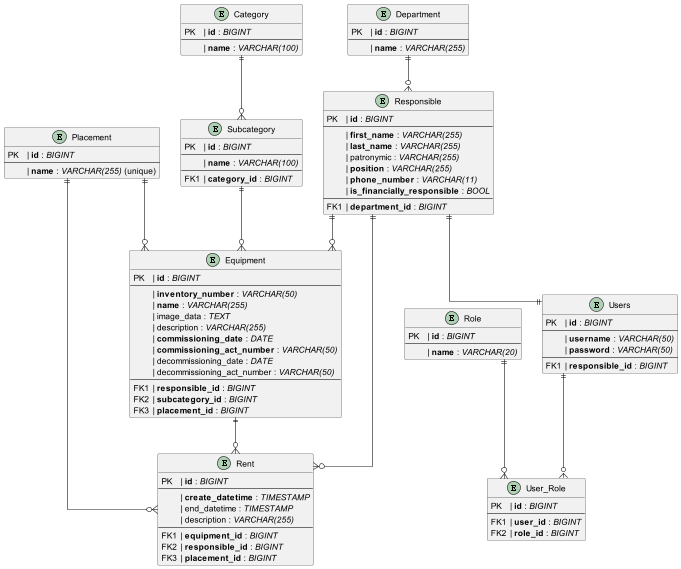
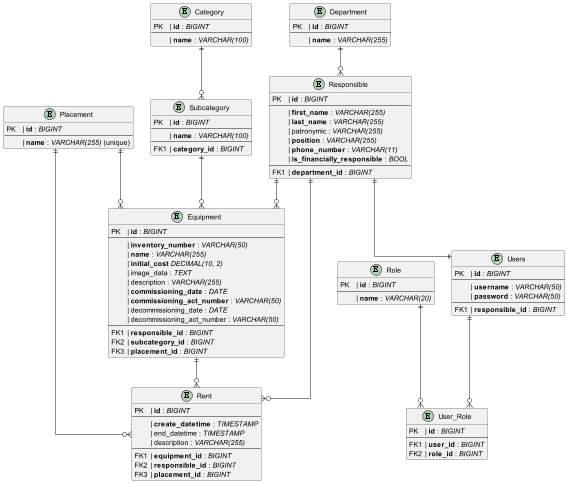
feat: add column 'initial_cost' to equipment, add specification to initial cost field

Changed region(s): [[0.1799, 0.0, 1.0, 1.0], [0.0, 0.2174, 0.2399, 0.9006]]

diff --git a/src/main/java/com/vlsu/inventory/service/EquipmentService.java b/src/main/java/com/vlsu/inventory/service/EquipmentService.java
@@ -17,6 +17,7 @@ import org.springframework.stereotype.Service;
 import org.springframework.web.multipart.MultipartFile;
 
 import java.io.IOException;
+import java.math.BigDecimal;
 import java.time.LocalDate;
 import java.util.List;
 import java.util.Map;
@@ -40,7 +41,8 @@ public class EquipmentService {
     }
 
     public List<Equipment> getAllEquipmentByParams(
-            String inventoryNumber, String name, LocalDate commissioningDateFrom, LocalDate commissioningDateTo,
+            String inventoryNumber, String name, BigDecimal initialCostFrom, BigDecimal initialCostTo,
+            LocalDate commissioningDateFrom, LocalDate commissioningDateTo,
             LocalDate decommissioningDateFrom, LocalDate decommissioningDateTo,
             String commissioningActNumber, String decommissioningActNumber) {
         Specification<Equipment> filter = (equipment, query, cb) -> cb.greaterThan(equipment.get("id"), 0);
@@ -48,6 +50,10 @@ public class EquipmentService {
             filter = filter.and(inventoryNumberStartsWith(inventoryNumber));
         if (name != null)
             filter = filter.and(nameStartsWith(name));
+        if (initialCostFrom != null)
+            filter = filter.and(initialCostFrom(initialCostFrom));
+        if (initialCostTo != null)
+            filter = filter.and(initialCostTo(initialCostTo));
         if (commissioningDateFrom != null)
             filter = filter.and(commissioningDateFrom(commissioningDateFrom));
         if (commissioningDateTo != null)
@@ -114,7 +120,7 @@ public class EquipmentService {
 
     public void createEquipment(Long subcategoryId, Long responsibleId, Long placementId, Equipment equipment,
                                 UserDetailsImpl principal)
-            throws ResourceNotFoundException, ActionNotAllowedException, IOException {
+            throws ResourceNotFoundException, ActionNotAllowedException {
         User user = userRepository.findByUsername(principal.getUsername()).get();
         Responsible responsible = user.getResponsible();
         if (user.isAdmin()) {
@@ -161,16 +167,16 @@ public class EquipmentService {
                         .orElseThrow(() -> new ResourceNotFoundException("Placement with id '" + placementId + "' not found"));
         Subcategory subcategory = subcategoryRepository.findById(subcategoryId)
                         .orElseThrow(() -> new ResourceNotFoundException("Subcategory with id '" + subcategoryId + "' not found"));
-        equipment.setInventoryNumber(equipmentRequest.getInventoryNumber());
-        equipment.setName(equipmentRequest.getName());
-        equipment.setDescription(equipmentRequest.getDescription());
-        equipment.setCommissioningDate(equipmentRequest.getCommissioningDate());
-        equipment.setCommissioningActNumber(equipmentRequest.getCommissioningActNumber());
-        equipment.setDecommissioningDate(equipmentRequest.getDecommissioningDate());
-        equipment.setDecommissioningActNumber(equipmentRequest.getDecommissioningActNumber());
+
+        equipment = new Equipment(equipmentRequest.getInventoryNumber(),  equipmentRequest.getName(),
+                equipmentRequest.getImageData(), equipmentRequest.getDescription(), equipmentRequest.getInitialCost(),
+                equipmentRequest.getCommissioningDate(), equipmentRequest.getCommissioningActNumber(),
+                equipmentRequest.getDecommissioningDate(), equipmentRequest.getDecommissioningActNumber());
+        equipment.setId(id);
         equipment.setResponsible(responsible);
         equipment.setPlacement(placement);
         equipment.setSubcategory(subcategory);
+
         equipmentRepository.save(equipment);
     }
 

diff --git a/src/main/java/com/vlsu/inventory/model/Equipment.java b/src/main/java/com/vlsu/inventory/model/Equipment.java
@@ -3,6 +3,7 @@ package com.vlsu.inventory.model;
 import com.fasterxml.jackson.annotation.JsonIgnore;
 import jakarta.persistence.*;
 
+import java.math.BigDecimal;
 import java.time.LocalDate;
 import java.util.List;
 
@@ -25,6 +26,8 @@ public class Equipment {
 
     @Column(name = "description")
     private String description;
+    @Column(name = "initial_cost")
+    private BigDecimal initialCost;
 
     @Column(name = "commissioning_date", nullable = false)
     private LocalDate commissioningDate;
@@ -60,12 +63,13 @@ public class Equipment {
     public Equipment() {}
 
     public Equipment(String inventoryNumber, String name, String imageData,
-                     String description, LocalDate commissioningDate, String commissioningActNumber,
+                     String description, BigDecimal initialCost, LocalDate commissioningDate, String commissioningActNumber,
                      LocalDate decommissioningDate, String decommissioningActNumber) {
         this.inventoryNumber = inventoryNumber;
         this.name = name;
         this.imageData = imageData;
         this.description = description;
+        this.initialCost = initialCost;
         this.commissioningDate = commissioningDate;
         this.commissioningActNumber = commissioningActNumber;
         this.decommissioningDate = decommissioningDate;
@@ -102,6 +106,14 @@ public class Equipment {
 
     public void setImageData(String imageData) {
         this.imageData = imageData;
+    }
+
+    public BigDecimal getInitialCost() {
+        return initialCost;
+    }
+
+    public void setInitialCost(BigDecimal initialCost) {
+        this.initialCost = initialCost;
     }
 
     public String getDescription() {
@@ -186,6 +198,7 @@ public class Equipment {
                 "id=" + id +
                 ", inventoryNumber='" + inventoryNumber + '\'' +
                 ", name='" + name + '\'' +
+                ", initialCost='" + initialCost + '\'' +
                 ", description='" + description + '\'' +
                 ", commissioningDate=" + commissioningDate +
                 ", commissioningActNumber='" + commissioningActNumber + '\'' +

diff --git a/src/main/java/com/vlsu/inventory/controller/EquipmentController.java b/src/main/java/com/vlsu/inventory/controller/EquipmentController.java
@@ -13,6 +13,7 @@ import org.springframework.security.core.annotation.AuthenticationPrincipal;
 import org.springframework.web.bind.annotation.*;
 import org.springframework.web.multipart.MultipartFile;
 
+import java.math.BigDecimal;
 import java.time.LocalDate;
 import java.util.List;
 
@@ -29,6 +30,8 @@ public class EquipmentController {
     public ResponseEntity<?> getAllEquipmentPageable(
             @RequestParam(required = false) String inventoryNumber,
             @RequestParam(required = false) String name,
+            @RequestParam(required = false) BigDecimal initialCostFrom,
+            @RequestParam(required = false) BigDecimal initialCostTo,
             @RequestParam(required = false) LocalDate commissioningDateFrom,
             @RequestParam(required = false) LocalDate commissioningDateTo,
             @RequestParam(required = false) LocalDate decommissioningDateFrom,
@@ -38,8 +41,8 @@ public class EquipmentController {
             @RequestParam(defaultValue = "1") int page,
             @RequestParam(defaultValue = "50") int size) {
         try {
-            List<Equipment> equipment = equipmentService.getAllEquipmentByParams(inventoryNumber, name, commissioningDateFrom,
-                    commissioningDateTo, decommissioningDateFrom, decommissioningDateTo,
+            List<Equipment> equipment = equipmentService.getAllEquipmentByParams(inventoryNumber, name, initialCostFrom, initialCostTo,
+                    commissioningDateFrom, commissioningDateTo, decommissioningDateFrom, decommissioningDateTo,
                     commissioningActNumber, decommissioningActNumber);
             return new ResponseEntity<>(EquipmentService.getEquipmentByPage(equipment, page, size), HttpStatus.OK);
         } catch (Exception exception) {

diff --git a/src/main/java/com/vlsu/inventory/repository/EquipmentRepository.java b/src/main/java/com/vlsu/inventory/repository/EquipmentRepository.java
@@ -5,6 +5,7 @@ import org.springframework.data.jpa.domain.Specification;
 import org.springframework.data.jpa.repository.JpaRepository;
 import org.springframework.data.jpa.repository.JpaSpecificationExecutor;
 
+import java.math.BigDecimal;
 import java.time.LocalDate;
 import java.util.List;
 
@@ -18,6 +19,15 @@ public interface EquipmentRepository extends JpaRepository<Equipment, Long>, Jpa
     static Specification<Equipment> nameStartsWith(String name) {
         return (equipment, query, criteriaBuilder) -> criteriaBuilder.like(equipment.get("name"), name + "%");
     }
+
+    static Specification<Equipment> initialCostFrom(BigDecimal initialCost) {
+        return (equipment, query, criteriaBuilder) -> criteriaBuilder.greaterThanOrEqualTo(equipment.get("initialCost"), initialCost);
+    }
+
+    static Specification<Equipment> initialCostTo(BigDecimal initialCost) {
+        return (equipment, query, criteriaBuilder) -> criteriaBuilder.lessThanOrEqualTo(equipment.get("initialCost"), initialCost);
+    }
+
 
     static Specification<Equipment> commissioningDateFrom(LocalDate from) {
         return (equipment, query, criteriaBuilder) -> criteriaBuilder
